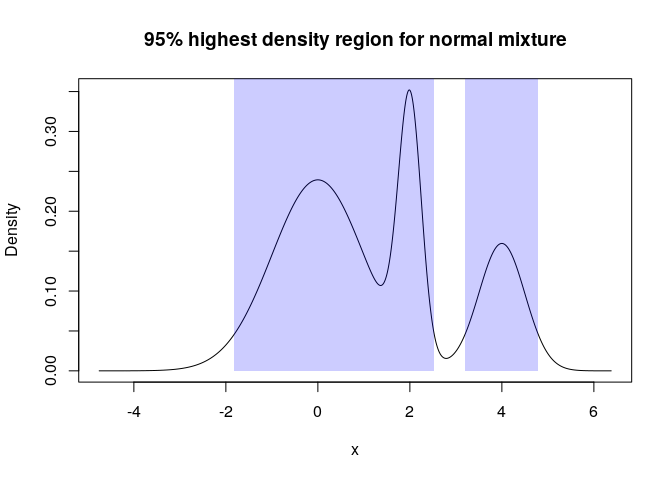
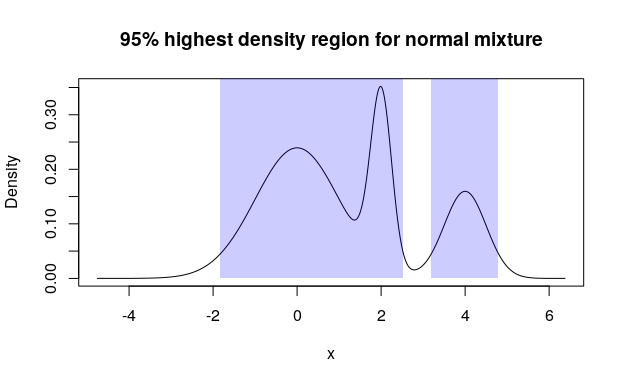
Update figure size in README.

diff --git a/README.md b/README.md
@@ -135,7 +135,7 @@ d_vs1 <- new_d(mpg_vs1, "continuous")
 plot(mpg_diffmean, main = "Distribution of difference of sample means")
 ```
 
-<img src="man/figures/README-pdqr-quick_diff-means-1.png" width="62%" />
+![](man/figures/README-pdqr-quick_diff-means-1.png)<!-- -->
 
 Compute and visualize 95% highest density region for mixture of normal
 distributions:
@@ -160,7 +160,7 @@ plot(norm_mix, main = "95% highest density region for normal mixture")
 region_draw(norm_hdr)
 ```
 
-<img src="man/figures/README-pdqr-quick_mixture-hdr-1.png" width="62%" />
+![](man/figures/README-pdqr-quick_mixture-hdr-1.png)<!-- -->
 
 ## <a id="pdqr-create"></a> Create with `new_*()`
 
@@ -428,7 +428,7 @@ lines(d_smpl_bounded, col = "blue")
 lines(as_d(dunif), col = "red")
 ```
 
-<img src="man/figures/README-pdqr-transform_form-1.png" width="62%" />
+![](man/figures/README-pdqr-transform_form-1.png)<!-- -->
 
 ``` r
 
@@ -442,7 +442,7 @@ plot(d_norm_2, col = "black")
 lines(as_d(dnorm, sd = sqrt(2)), col = "red")
 ```
 
-<img src="man/figures/README-pdqr-transform_form-2.png" width="62%" />
+![](man/figures/README-pdqr-transform_form-2.png)<!-- -->
 
 ### Base operations
 
@@ -642,4 +642,4 @@ summ_rocauc(my_d, my_d_2)
 roc_plot(my_roc)
 ```
 
-<img src="man/figures/README-pdqr-summarize_roc-1.png" width="62%" />
+![](man/figures/README-pdqr-summarize_roc-1.png)<!-- -->
